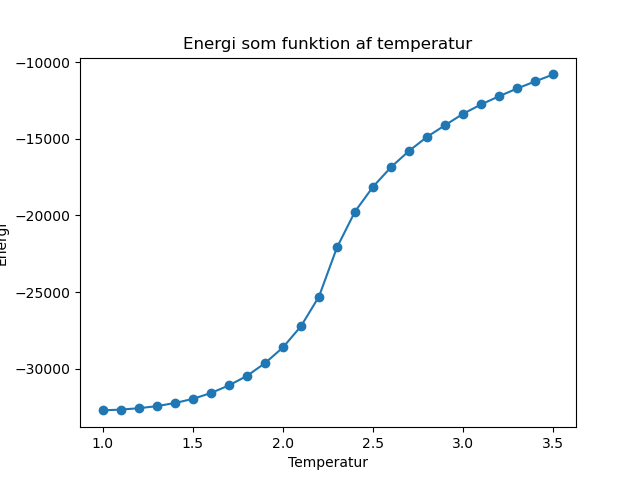
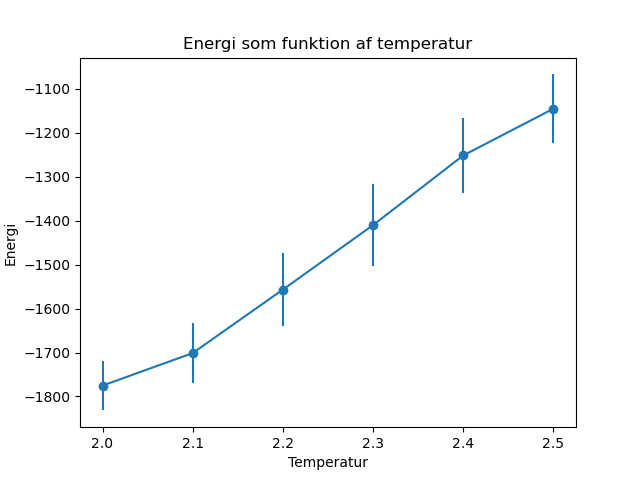
plotting

diff --git a/plotting/2DfourierPlot.py b/plotting/2DfourierPlot.py
@@ -19,8 +19,10 @@ temps = parameters[:,1]
 counts = measurements[:,0]
 magnetiseringer = measurements[:,1]
 susceptibiliteter = measurements[:,2]
-energier = measurements[:,3]
-varmekapaciteter = measurements[:,4]
+susceptibilitetvarianser = measurements[:,3]
+energier = measurements[:,4]
+varmekapaciteter = measurements[:,5]
+varmevarianser = measurements[:,6]
 
 kvadratFFT1Ds = []
 kvadratFFTVar1Ds = []
@@ -42,6 +44,7 @@ kvadratFFT1Dusikkerheder = np.sqrt(kvadratFFTVar1Ds)
 kvadratFFT1Dusikkerheder /= np.sqrt(counts)[:, np.newaxis]  # Usikkerhed på gennemsnittet er standardafvigelsen delt med kvadratroden af antallet af målinger
 
 gammas = []
+gammaUsikkerheder = []
 
 #cauchy fordeling med offset for at plotte fittet
 def cauchy_offset(x, A, gamma, k):
@@ -56,8 +59,9 @@ kvadratFFT1Dusikkerheder = [np.delete(kvadratFFT1Dusikkerheder[i], middle_indice
 for i in range(simCount):  # Adjust the range as needed
     X = np.arange(-sizes[i]//2, sizes[i]//2)
     X = np.delete(X, len(X)//2)  # Fjern det midterste punkt for at undgå singularitet i cauchy fit
-    p0 = [max(kvadratFFT1Ds[i]), 5, 0]  # Initiale gæt for A, gamma og k
-    par, cov = curve_fit(cauchy_offset, X, kvadratFFT1Ds[i], p0=p0, maxfev=10000)
+    p0 = [max(kvadratFFT1Ds[i]), 10, min(kvadratFFT1Ds[i])]  # Initiale gæt for A, gamma og k
+    par, cov = curve_fit(cauchy_offset, X, kvadratFFT1Ds[i], p0=p0, maxfev=50000)
+    gammaUsikkerheder.append(np.sqrt(cov[1][1]))
     gammas.append(par[1])
 
 
@@ -80,28 +84,28 @@ plt.savefig("output/Fourier/1D_Fouriers.png",dpi =600)
 plt.close()
 
 # magnetisering som funktion af temp
-plt.plot(temps, magnetiseringer, 'o-')
+plt.errorbar(temps, magnetiseringer, yerr=np.sqrt(susceptibiliteter), fmt='o-')
 plt.xlabel("Temperatur")
 plt.ylabel("Magnetisering")
 plt.title("Magnetisering som funktion af temperatur")
 plt.savefig("output/Fourier/Magnetisering.png")
 plt.close()
 # susceptibilitet som funktion af temp 
-plt.plot(temps, susceptibiliteter, 'o-')
+plt.errorbar(temps, susceptibiliteter, yerr=np.sqrt(susceptibilitetvarianser), fmt='o-')
 plt.xlabel("Temperatur")
 plt.ylabel("Susceptibilitet")
 plt.title("Susceptibilitet som funktion af temperatur")
 plt.savefig("output/Fourier/susceptibilitet.png")
 plt.close()
 # energi som funktion af temp
-plt.plot(temps, energier, 'o-')
+plt.errorbar(temps, energier, yerr=np.sqrt(varmekapaciteter), fmt='o-')
 plt.xlabel("Temperatur")
 plt.ylabel("Energi")
 plt.title("Energi som funktion af temperatur")
 plt.savefig("output/Fourier/Energi.png")
 plt.close()
 # varmekapacitet som funktion af temp
-plt.plot(temps, varmekapaciteter, 'o-')
+plt.errorbar(temps, varmekapaciteter, yerr=np.sqrt(varmevarianser), fmt='o-')
 plt.xlabel("Temperatur")
 plt.ylabel("Varmekapacitet")
 plt.title("Varmekapacitet som funktion af temperatur")
@@ -109,7 +113,7 @@ plt.savefig("output/Fourier/Varmekapacitet.png")
 plt.close()
 # korrelationslængde som funktion af temp
 
-plt.plot(temps, 1/np.array(gammas), 'o-')
+plt.errorbar(temps, 1/np.array(gammas), yerr=1/np.array(gammaUsikkerheder), fmt='o-') #usikkerheder skal måske bare være usikkerheden på gamma fra python fit?
 plt.xlabel("Temperatur")
 plt.ylabel("Korrelationslængde (gamma)")
 plt.title("Korrelationslængde som funktion af temperatur")

diff --git a/simulations/FourierSweep.cpp b/simulations/FourierSweep.cpp
@@ -21,15 +21,15 @@ int main()
 
     std::vector<MCParameters> paramsList;
 
-    for (double T = 1; T <= 3.51; T += 0.5)
+    for (double T = 2; T <= 2.51; T += 0.05)
     {
         MCParameters params;
         params.latticeType = LatticeType::FunkySquare;
-        params.size = 32;
+        params.size = 128;
         params.temperature = T;
         params.B = 0.0;
-        params.totalStepCount = 2e7;
-        params.measurementInterval = 1e5;
+        params.totalStepCount = 2e8;
+        params.measurementInterval = 1e6;
         params.randomize = false;
         params.printProgress = false;
         params.stabilizing = 0.2;
@@ -53,8 +53,10 @@ int main()
         measurementsFile << allMeasurements[i].count << ",";
         measurementsFile << allMeasurements[i].magnetisering << ",";
         measurementsFile << allMeasurements[i].magnetiseringVarians << ",";
+        measurementsFile << allMeasurements[i].magnetiseringVariansVarians << ",";
         measurementsFile << allMeasurements[i].hamilton << ",";
         measurementsFile << allMeasurements[i].hamiltonVarians << ",";
+        measurementsFile << allMeasurements[i].hamiltonVariansVarians << ",";
         measurementsFile << "\n";
 
         for (const double &m : allMeasurements[i].normKvadrat)
